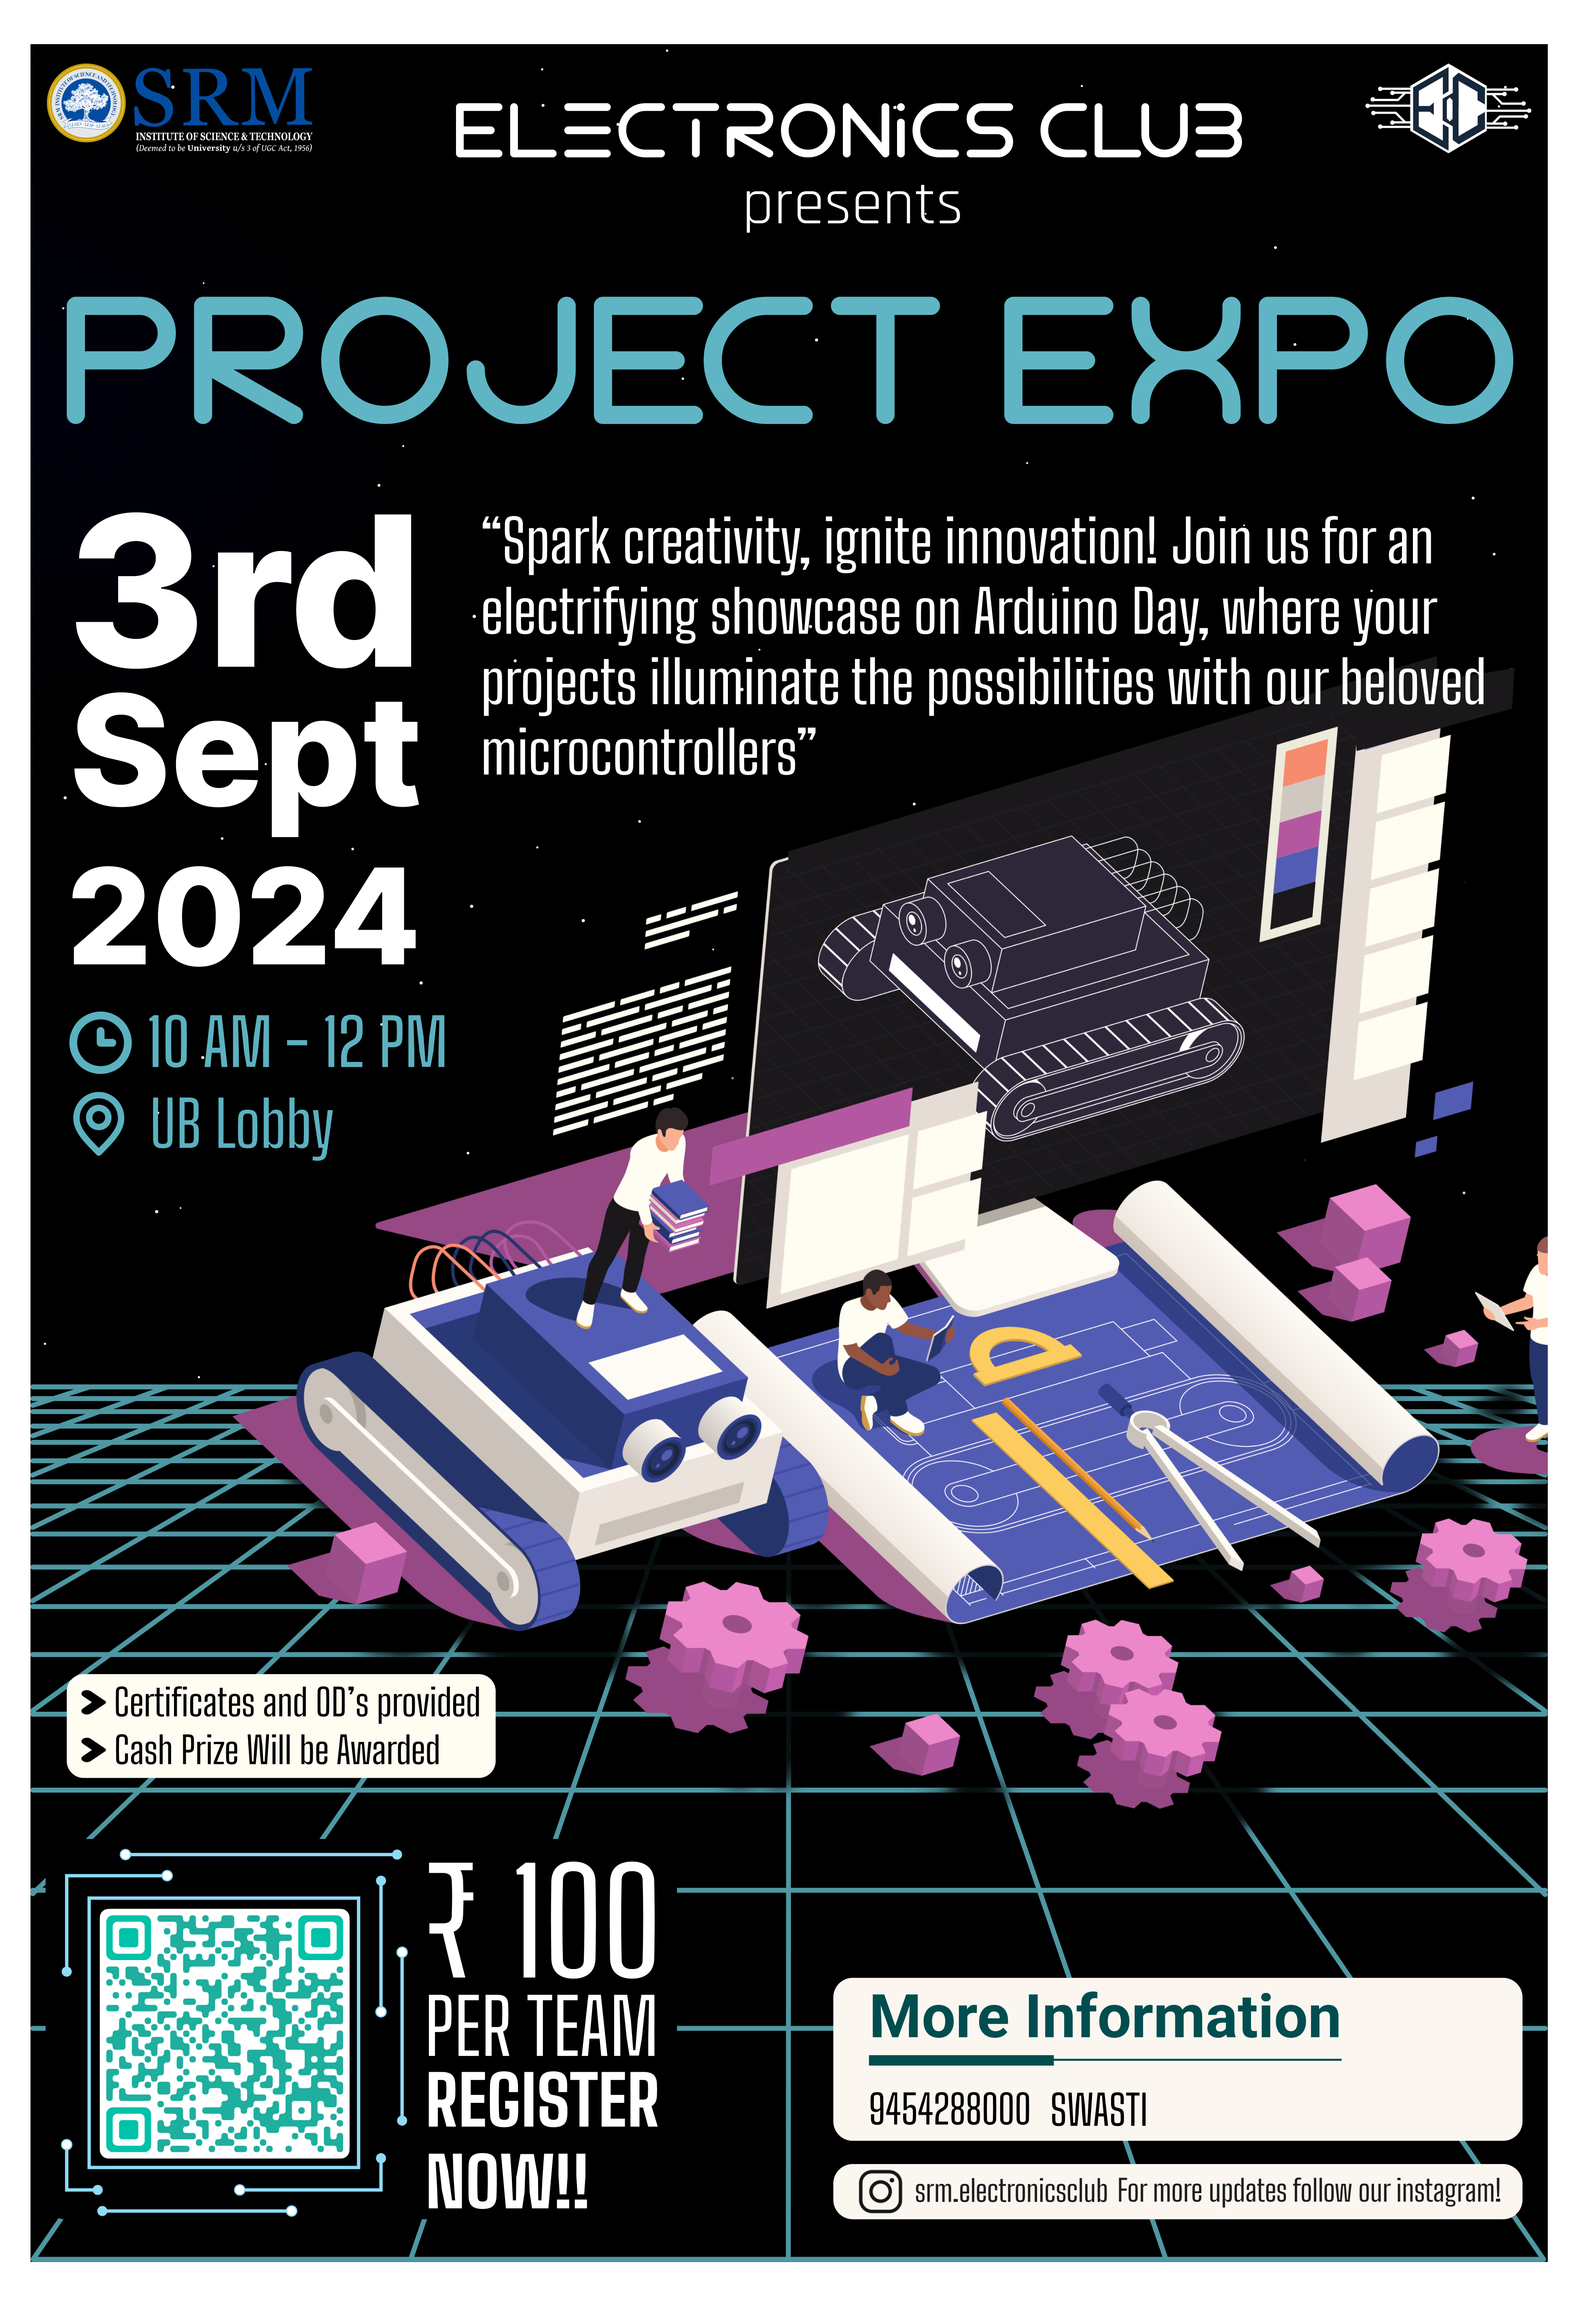
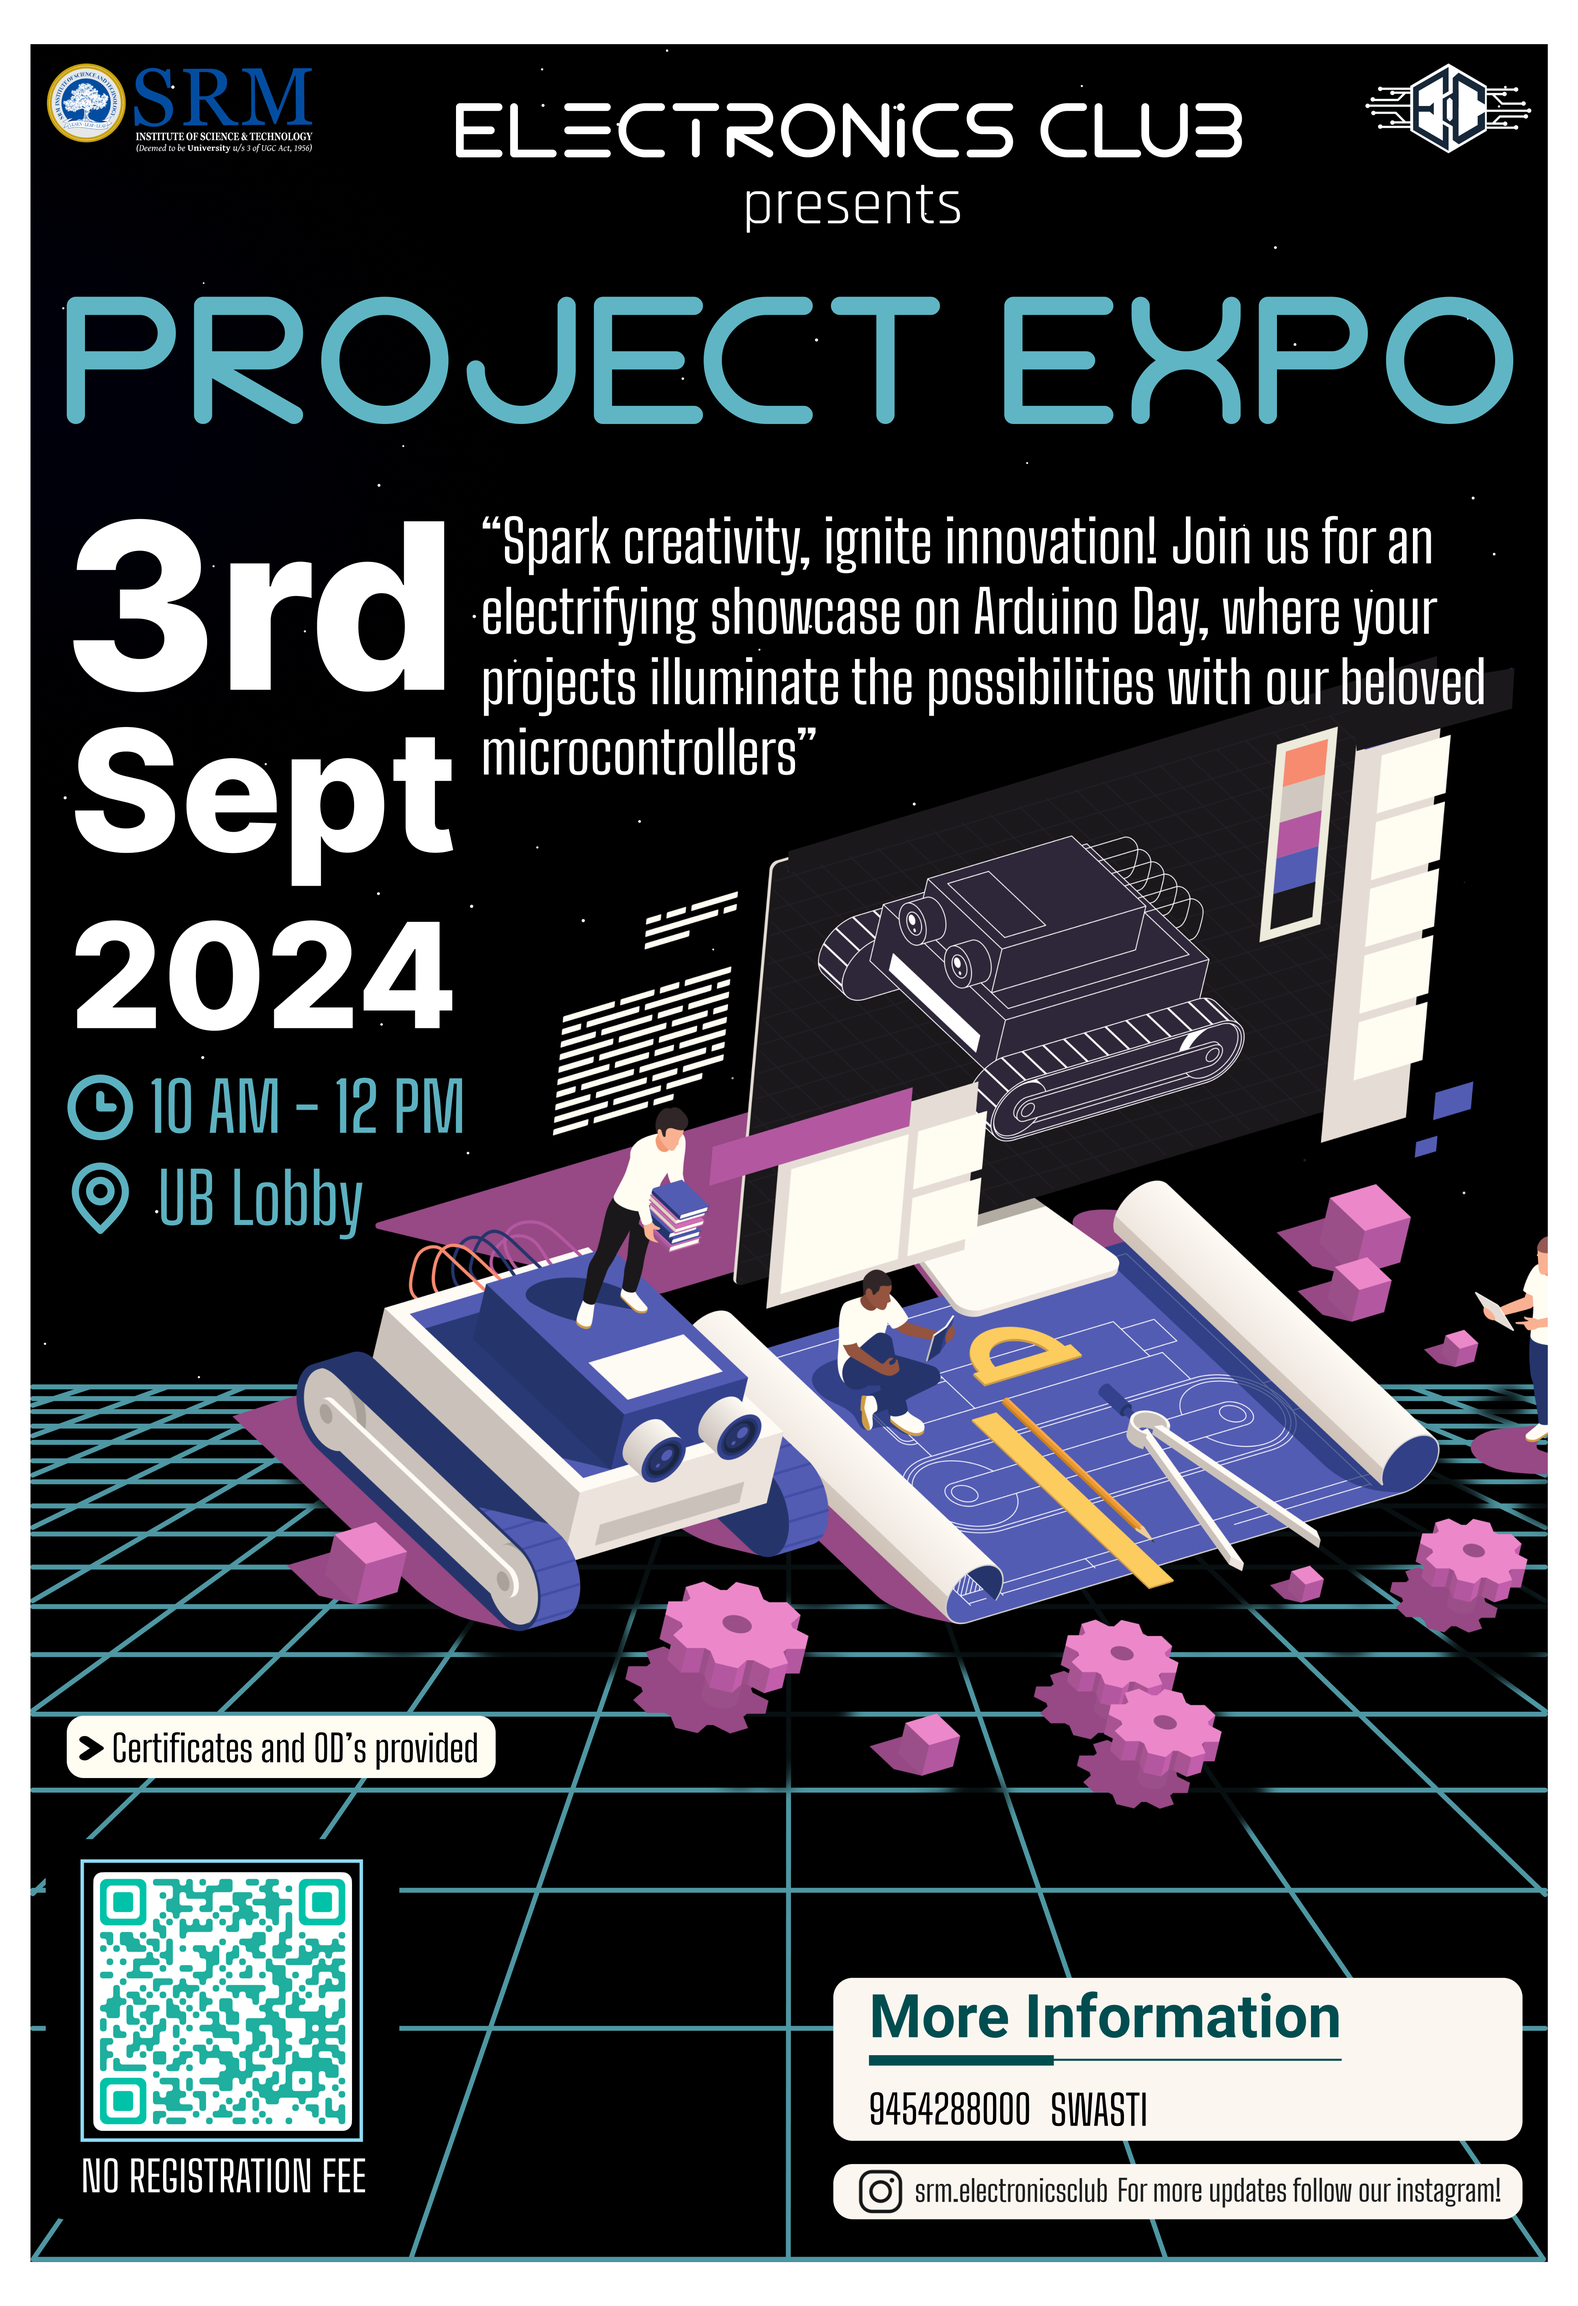
chore: update information about expo

Changed region(s): [[0.031, 0.7182, 0.4344, 0.9681], [0.031, 0.2186, 0.3103, 0.5309]]

diff --git a/src/utils/data.ts b/src/utils/data.ts
@@ -13,7 +13,7 @@ export const events = [
         description: "Sparkle creativity, ignite innovation! Join us for an electrifying showcase on Arduino Day, where your projects illuminate the possibilities with our beloved microcontrollers.",
         time: "3rd September 2024",
         image: "/events/expo poster.png",
-        registration: "₹100 per team",
+        registration: "Free",
         venue: "UB Lobby",
         link: "https://docs.google.com/forms/d/1SFOR5G9cibjiU4SAHLYSWfuwpJnyDsgqdJTMOgqzavs/viewform?ts=65eca982&edit_requested=true"
     },
